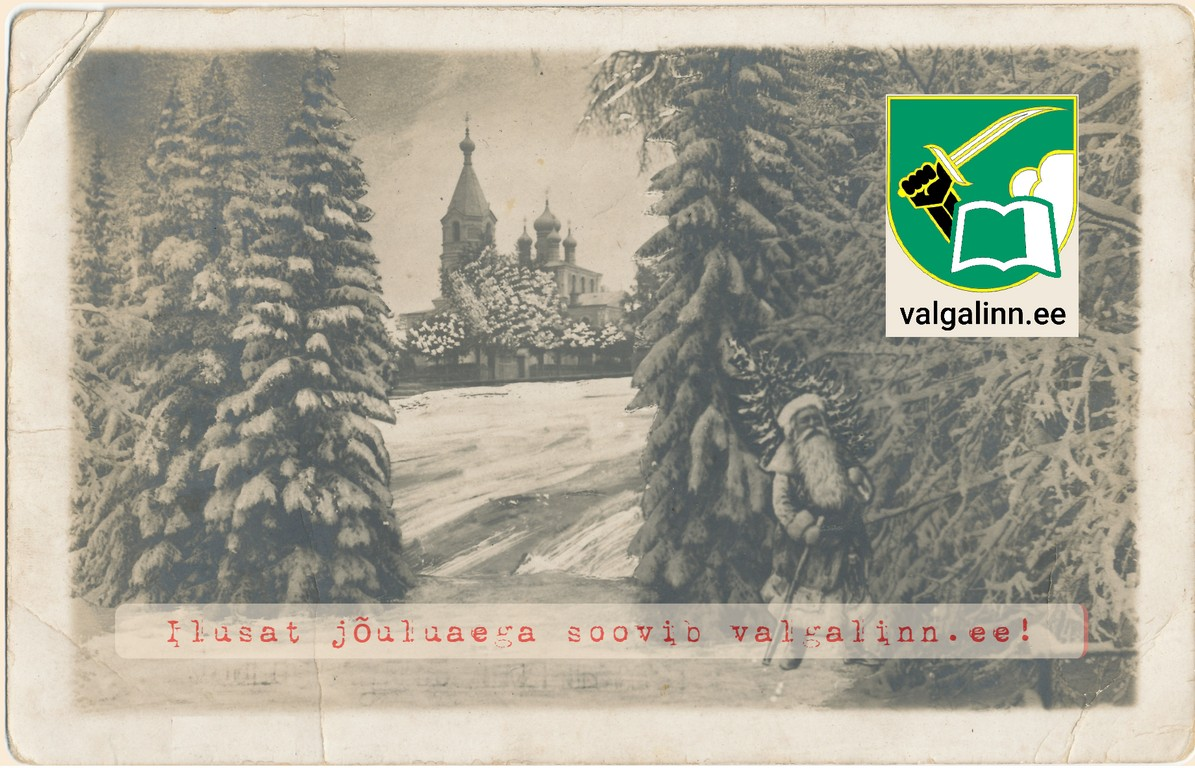
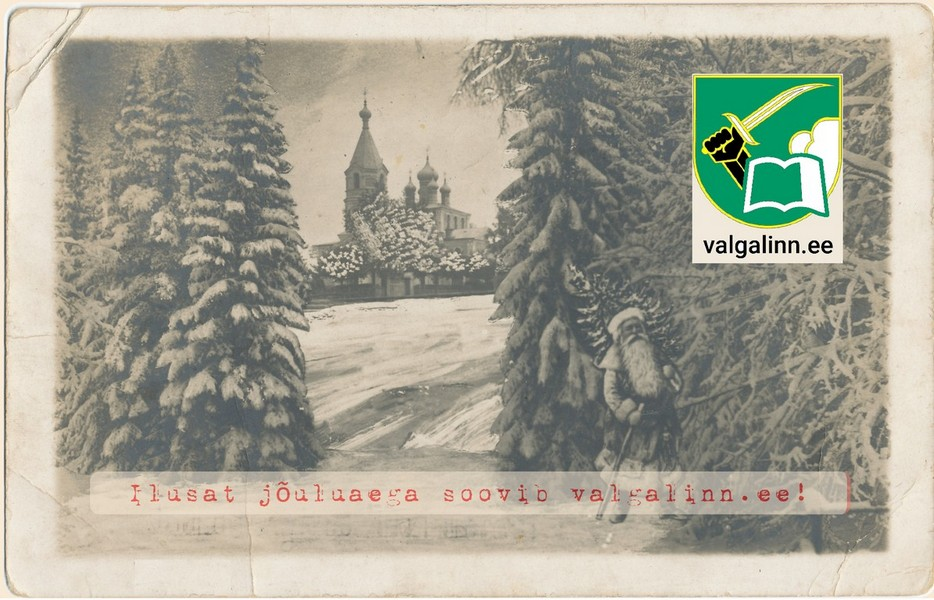
fb share images upd

Changed region(s): [[0.7452, 0.12, 0.9004, 0.3], [0.7762, 0.36, 0.8383, 0.39]]

diff --git a/ilm/templates/ilm/ilm_base.html b/ilm/templates/ilm/ilm_base.html
@@ -17,7 +17,7 @@
 		<meta property="og:type"          content="website" />
 		<meta property="og:title"         content="Valga linna ilm" />
 		<meta property="og:description"   content="Valga linna kroonika ilmaandmed" />
-		<meta property="og:image"         content="https://valgalinn.ee{% static 'wiki/img/android-chrome-512x512.png' %}" />
+		<meta property="og:image" content="https://valgalinn.ee{% static 'wiki/img/android-chrome-1200x600-FB.jpg' %}" />
 <!--		<link rel="stylesheet" href="https://www.w3schools.com/w3css/4/w3.css">-->
 		<link rel="stylesheet" href="{% static 'wiki/css/w3.css' %}?ver=2021.05">
 		<link rel="stylesheet" href="https://fonts.googleapis.com/css?family=Raleway">
